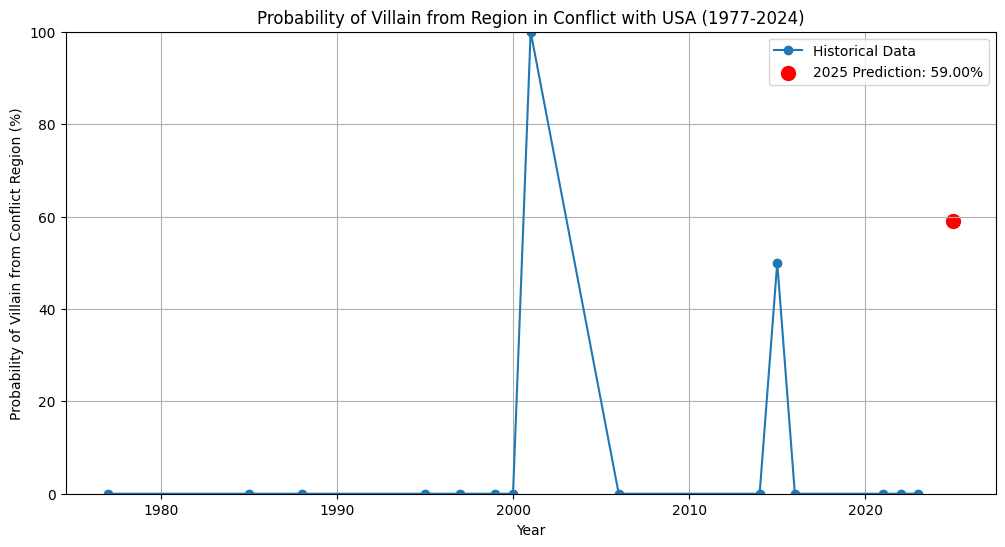
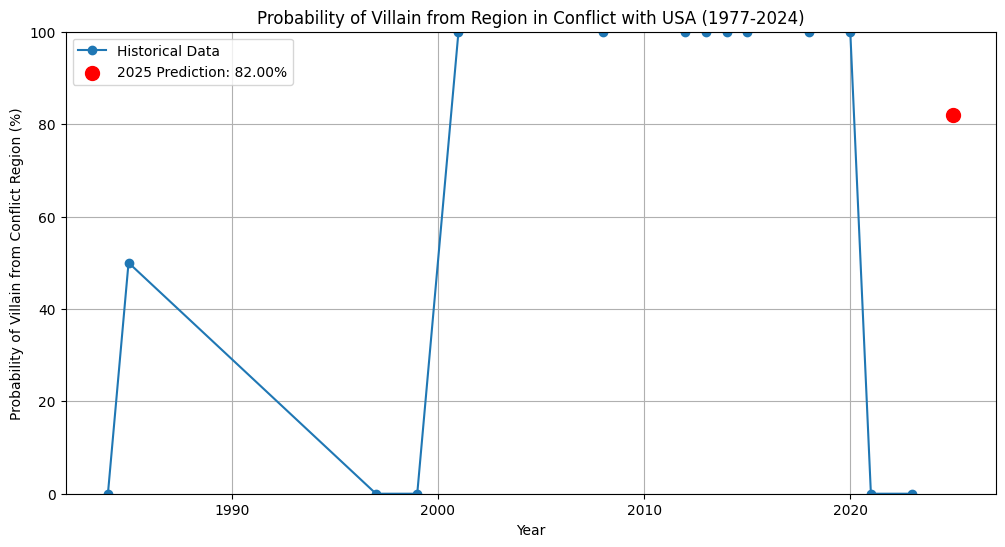
Shanani's Request

diff --git a/Final Project/3-Villians Heatmap/Prediction Module.py b/Final Project/3-Villians Heatmap/Prediction Module.py
@@ -11,15 +11,15 @@ df = pd.read_csv('output/top_10_box_office_movies_1977_2023_with_villains_origin
 regions = {
     'Islamic Countries': ['Iran', 'Iraq', 'Afghanistan', 'Syria', 'Pakistan', 'Saudi Arabia', 'Egypt', 'Turkey',
                           'Libya', 'Islamic'],
-    'Germany': ['Germany', 'West Germany', 'East Germany'],
+    'Communist Asia': ['China', 'North Korea'],
     'Russian/Ukrainian': ['Russia', 'USSR', 'Soviet Union', 'Ukraine', 'Stalingrad', 'Moscow', 'Kyiv']
 }
 
 # Define geopolitical conflicts data
 geopolitical_conflicts = {
-    'Islamic Countries': [(1979, 1981), (2001, 2001), (2003, 2011)],  # Iran Hostage Crisis, 9/11, Iraq War
-    'Germany': [(1989, 1990)],  # Fall of Berlin Wall
-    'Russian/Ukrainian': [(2014, 2016), (2022, 2024)]  # Ukraine Crisis, Russia-Ukraine Conflict
+    'Islamic Countries': [(1979, 1981), (1991, 1993), (2001, 2001), (2002, 2015)],  # Iran Hostage Crisis, gulf war, 9/11, Iraq and Afganistan Wars
+    'Communist Asia': [(2006, 2018), (2020, 2024)],  # North Korea Nuclear threat, China marked as greatest threat to the USA
+    'Russian/Ukrainian': [(1980, 1985), (2014, 2016), (2022, 2024)]  # Cold war tention, Ukraine Crisis, Russia-Ukraine Conflict
 }
 
 
